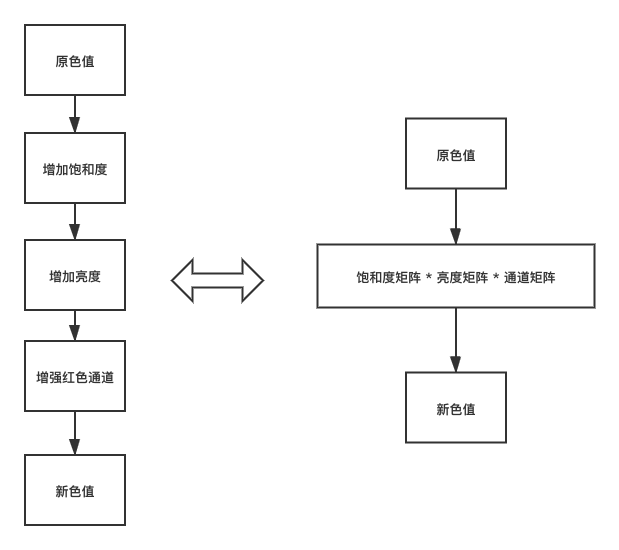
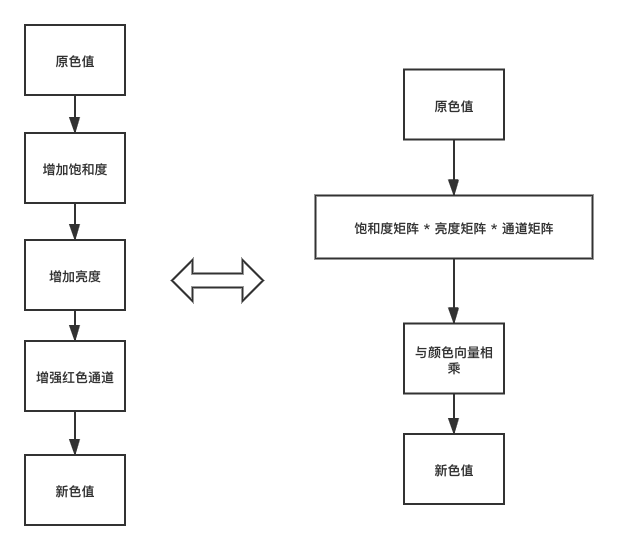
docs: 完成滤镜效果

diff --git a/documents/visualization/beautify/readme.md b/documents/visualization/beautify/readme.md
@@ -118,7 +118,7 @@ context.putImageData(imageData, 0, 0)
 
 ![](./img/yansejuzhentuidao.jpeg)
 
-像素矩阵与像素的颜色向量相乘之后能够得到 `R'`、`G'`、`B'`和`A'`，我们将新得到通道值赋给原来的通道，就能得到新的滤镜效果了。
+颜色矩阵与像素的颜色向量相乘之后能够得到 `R'`、`G'`、`B'`和`A'`，我们将新得到通道值赋给原来的通道，就能得到新的滤镜效果了。
 
 下面是一些简单的颜色矩阵
 
@@ -207,3 +207,97 @@ export function brightness(p: number) {
 颜色矩阵和颜色向量相乘可以得到新的滤镜效果，根据矩阵运算的性质，我们可以将多次颜色变换的过程，简化为将相应的颜色矩阵相乘，然后用最终的那个矩阵与颜色向量相乘。流程图如下：
 
 ![](./img/juzhenflow.png)
+
+接下来我们需要实现颜色矩阵与颜色矩阵相乘以及颜色矩阵与颜色向量的函数，下面是颜色矩阵与颜色向量相乘的函数
+
+```javascript
+export function transformColor(color: number[], ...matrixs: number[][]) {
+  const [r, g, b, a] = color;
+  // 颜色矩阵相乘
+  const matrix: number[] = matrixs.reduce((m1, m2) => multiply(m1, m2));
+
+  color[0] = matrix[0] * r + matrix[1] * g + matrix[2] * b + matrix[3] * a + matrix[4];
+  color[1] = matrix[5] * r + matrix[6] * g + matrix[7] * b + matrix[8] * a + matrix[9];
+  color[2] = matrix[10] * r + matrix[11] * g + matrix[12] * b + matrix[13] * a + matrix[14];
+  color[3] = matrix[15] * r + matrix[16] * g + matrix[17] * b + matrix[18] * a + matrix[19];
+  return color;
+}
+```
+
+矩阵与矩阵相乘就不在文章中展示了。
+
+现在我同时增强图片的饱和度、图片的亮度以及红色通道
+
+```javascript
+  for(let i = 0, len = imageData.data.length; i < len; i += 4) {
+    const data = imageData.data[i];
+    const r = data[i],
+      g = data[i + 1],
+      b = data[i + 2],
+      a = data[i + 3];
+
+    const color = transformColor([r,g,b,a], saturate(1.5), brightness(1.5), channel({r: 1.5}));
+
+    data[i] = color[0];
+    data[i + 1] = color[1];
+    data[i + 2] = color[2];
+    data[i + 3] = color[3];
+  }
+```
+
+得到的结果如下：
+
+![](./img/zengqiang.png)
+
+### 图片融合
+
+在前面的两个滤镜案例中我们使用了像素点的颜色通道，在接下来的这个滤镜效果中我们要用像素点的坐标来实现两张图的叠加。我要将一张透明的 PNG 图叠加到前面用到的事例图上来实现阳光照射的效果
+
+![](./img/sunlightresult.png)
+
+现在我们需要加载两张图片，一张纹理图，另一张是主图，我们要从纹理中得到与主图对应的像素点的颜色值
+
+```javascript
+const Img = await loadImg('/WechatIMG27.jpeg')
+const texture = await loadImg('/sunlight.png')
+const textureImagedata = getImageData(texture);
+const imageData = getImageData(Img);
+
+for(let i = 0, len = imageData.data.length; i < len; i += 4) {
+  const data = imageData.data[i];
+  const r = data[i],
+    g = data[i + 1],
+    b = data[i + 2],
+    a = data[i + 3];
+  
+  // 得到纹理中的像素颜色值，在这里只需要使用到透明度
+  const { a: aOfTexture } = getPixels(textureImagedata, i);
+
+  const color = transformColor([r,g,b,a], saturate(2 - aOfTexture), brightness(1 + 0.7 * aOfTexture))
+
+  data[i] = color[0];
+  data[i + 1] = color[1];
+  data[i + 2] = color[2];
+  data[i + 3] = color[3];
+}
+
+function getPixels(imageData: ImageData, index: number) {
+  const data = imageData.data;
+  if (!data[index]) {
+      return {
+          r: 0,
+          g: 0,
+          b: 0,
+          a: 0
+      }
+  }
+  return {
+      r: data[index] / 255,
+      g: data[index + 1] / 255,
+      b: data[index + 2] / 255,
+      a: data[index + 3] / 255
+  }
+}
+```
+
+## 给图片添加模糊效果
